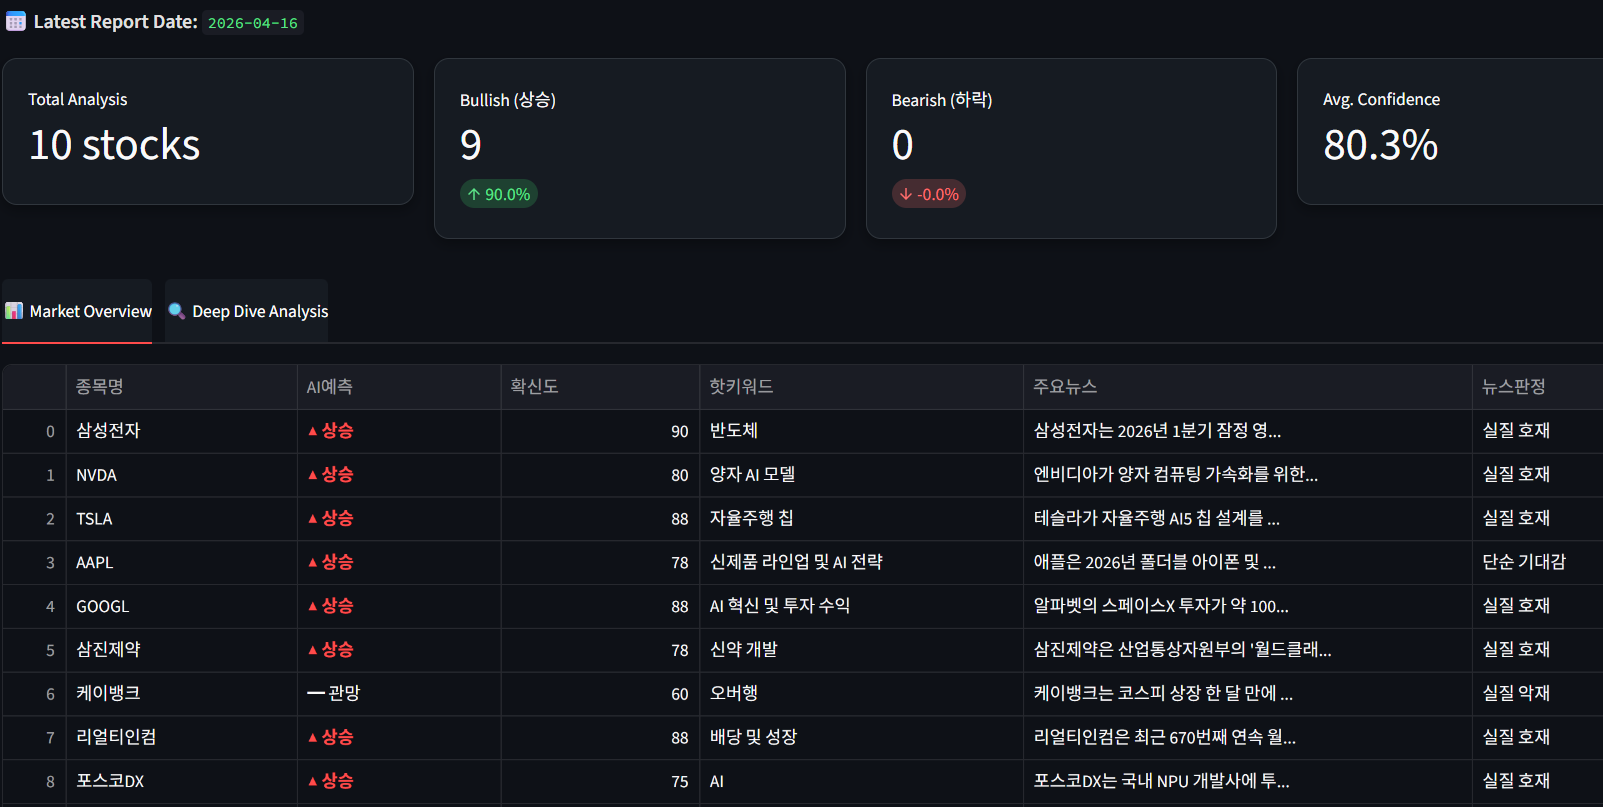
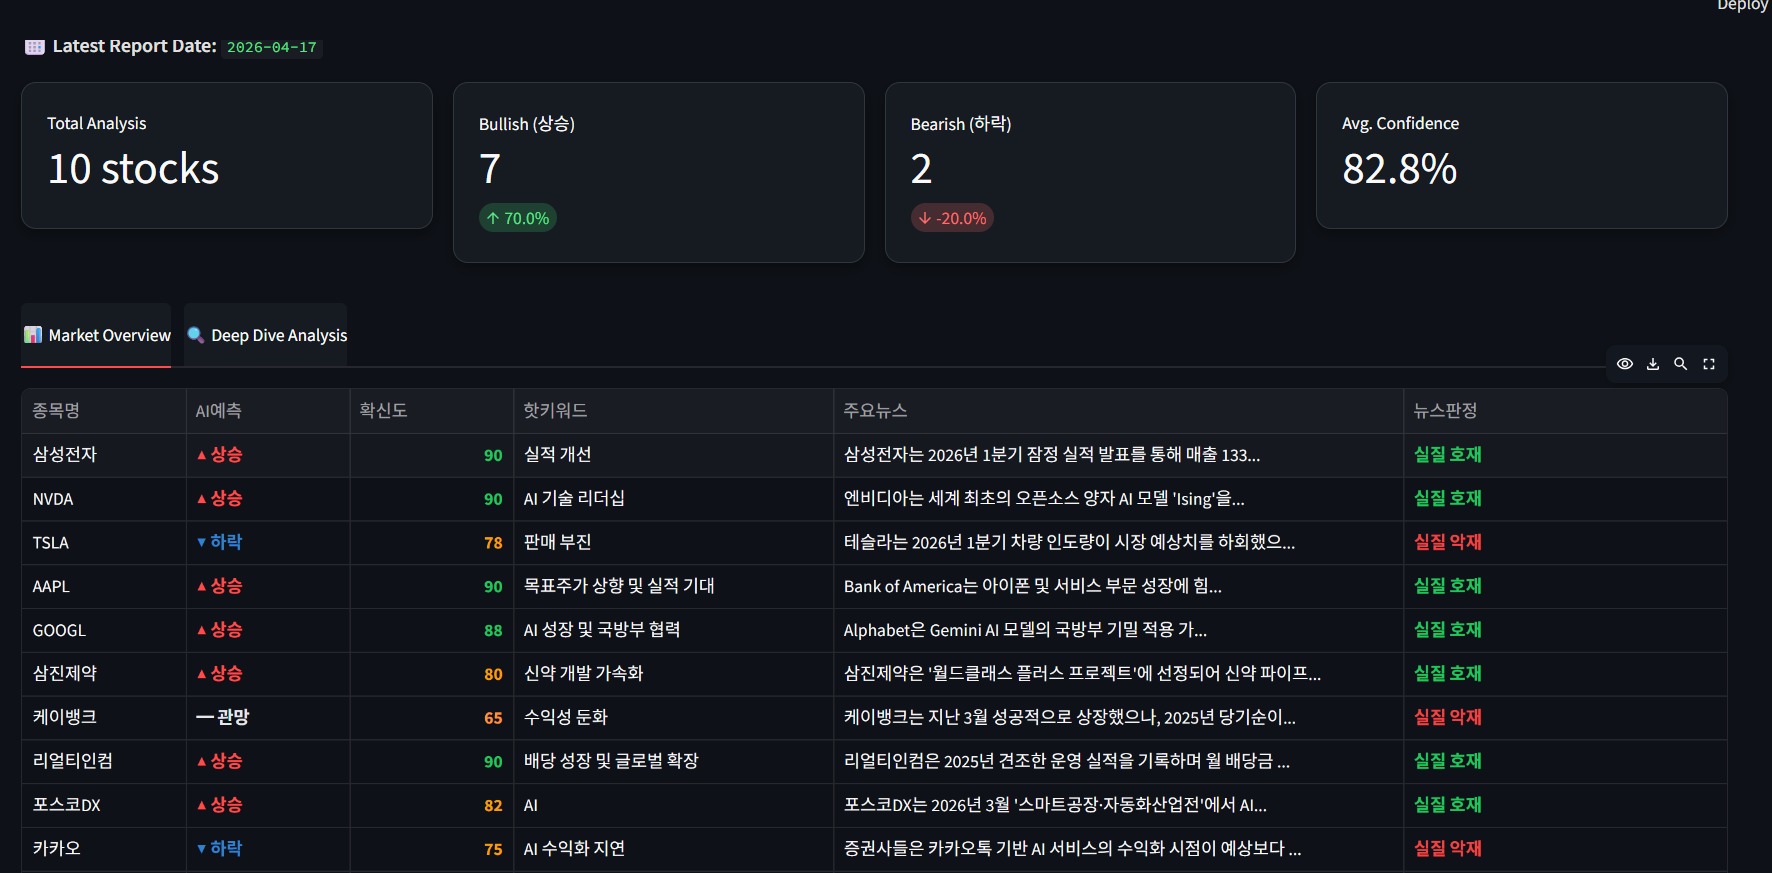
update dashboard_main.png

diff --git a/src/web_app.py b/src/web_app.py
@@ -2,7 +2,6 @@ import streamlit as st
 import pandas as pd
 import os
 from datetime import datetime
-import streamlit.components.v1 as components
 
 # 1. 페이지 설정
 st.set_page_config(page_title="Gemini Pro Insight", layout="wide", page_icon="💎")
@@ -44,10 +43,8 @@ st.markdown("""
     }
 
     .badge-keyword { background-color: #F59E0B; color: black; }
-    .badge-news { background-color: #8B5CF6; }
     .badge-chart { background-color: #0EA5E9; }
     .badge-pattern { background-color: #10B981; }
-    .badge-source { background-color: #64748B; }
 
     .section-title {
         font-size: 1.05rem;
@@ -90,6 +87,7 @@ st.markdown("""
 
 REPORT_PATH = "logs/daily_analysis_report.csv"
 
+
 def load_stock_chart_data(stock_name: str, ticker: str):
     possible_paths = [
         f"logs/raw_data/{stock_name}_5year_data.csv",
@@ -111,6 +109,7 @@ def load_stock_chart_data(stock_name: str, ticker: str):
                 return None
     return None
 
+
 def load_data():
     expected_columns = [
         "날짜", "종목명", "티커", "AI예측", "확신도",
@@ -126,7 +125,6 @@ def load_data():
         df.columns = df.columns.str.strip()
         df.columns = df.columns.str.replace("\ufeff", "", regex=False)
 
-        # 헤더가 없거나 꼬인 경우 대비
         if "확신도" not in df.columns:
             df = pd.read_csv(
                 REPORT_PATH,
@@ -160,10 +158,36 @@ def load_data():
 
 def get_prediction_color(pred_val: str):
     if "상승" in pred_val:
-        return "#FF4B4B"
+        return "#FF4B4B"   # 한국 주식 스타일: 상승 빨강
     elif "하락" in pred_val:
-        return "#3182CE"
-    return "#94A3B8"
+        return "#3182CE"   # 하락 파랑
+    return "#E5E7EB"
+
+
+def get_news_signal_color(signal: str):
+    signal = str(signal).strip()
+    if "호재" in signal:
+        return "#22C55E"   # 초록
+    if "악재" in signal:
+        return "#EF4444"   # 빨강
+    if "기대감" in signal:
+        return "#F59E0B"   # 노랑
+    return "#94A3B8"       # 회색
+
+
+def get_confidence_color(score):
+    try:
+        score = float(score)
+    except Exception:
+        return "#94A3B8"
+
+    if score >= 85:
+        return "#22C55E"   # 초록
+    elif score >= 70:
+        return "#F59E0B"   # 노랑
+    elif score >= 50:
+        return "#FB923C"   # 주황
+    return "#EF4444"       # 빨강
 
 
 def shorten_text(text: str, limit: int = 20):
@@ -211,6 +235,8 @@ if df is not None and not df.empty:
     # 사이드바 필터
     with st.sidebar:
         st.subheader("🔧 필터")
+        st.caption("예측 결과가 모두 선택되어 있으면 전체 보기입니다.")
+
         pred_filter = st.multiselect(
             "예측 결과",
             ["▲ 상승", "▼ 하락", "━ 관망"],
@@ -223,8 +249,12 @@ if df is not None and not df.empty:
             stock_list,
             key="stock_filter_widget"
         )
-        
+
         min_conf = st.slider("최소 확신도", 0, 100, 0)
+
+    # multiselect 전부 해제 방어
+    if not pred_filter:
+        pred_filter = ["▲ 상승", "▼ 하락", "━ 관망"]
 
     filtered_df = latest_df.copy()
     filtered_df = filtered_df[filtered_df["AI예측"].isin(pred_filter)]
@@ -238,17 +268,36 @@ if df is not None and not df.empty:
     with tab1:
         def style_df(row):
             styles = [''] * len(row)
-            if '상승' in str(row['AI예측']):
-                styles[1] = 'color: #FF4B4B; font-weight: bold'
-            elif '하락' in str(row['AI예측']):
-                styles[1] = 'color: #3182CE; font-weight: bold'
+
+            # 컬럼 순서:
+            # 종목명, AI예측, 확신도, 핫키워드, 주요뉴스, 뉴스판정
+            pred = str(row["AI예측"])
+            conf = row["확신도"]
+            news_signal = str(row["뉴스판정"])
+
+            # AI예측 색상
+            if "상승" in pred:
+                styles[1] = "color: #FF4B4B; font-weight: bold;"
+            elif "하락" in pred:
+                styles[1] = "color: #3182CE; font-weight: bold;"
+            else:
+                styles[1] = "color: #E5E7EB; font-weight: bold;"
+
+            # 확신도 색상
+            conf_color = get_confidence_color(conf)
+            styles[2] = f"color: {conf_color}; font-weight: bold;"
+
+            # 뉴스판정 색상
+            news_color = get_news_signal_color(news_signal)
+            styles[5] = f"color: {news_color}; font-weight: bold;"
+
             return styles
 
         display_df = filtered_df[[
             "종목명", "AI예측", "확신도", "핫키워드", "뉴스요약", "뉴스판정"
         ]].copy()
 
-        display_df["주요뉴스"] = display_df["뉴스요약"].apply(lambda x: shorten_text(x, 20))
+        display_df["주요뉴스"] = display_df["뉴스요약"].apply(lambda x: shorten_text(x, 35))
 
         display_df = display_df[[
             "종목명", "AI예측", "확신도", "핫키워드", "주요뉴스", "뉴스판정"
@@ -257,8 +306,17 @@ if df is not None and not df.empty:
         st.dataframe(
             display_df.style.apply(style_df, axis=1),
             use_container_width=True,
-            height=500
+            height=620,
+            column_config={
+                "종목명": st.column_config.TextColumn("종목명", width="small"),
+                "AI예측": st.column_config.TextColumn("AI예측", width="small"),
+                "확신도": st.column_config.NumberColumn("확신도", width="small"),
+                "핫키워드": st.column_config.TextColumn("핫키워드", width="medium"),
+                "주요뉴스": st.column_config.TextColumn("주요뉴스", width="large"),
+                "뉴스판정": st.column_config.TextColumn("뉴스판정", width="medium"),
+            }
         )
+
         st.write("### 🔎 종목 바로 보기")
 
         button_cols = st.columns(5)
@@ -291,51 +349,55 @@ if df is not None and not df.empty:
         else:
             current_label = selected_stock if selected_stock != "전체" else stock_filter
             st.markdown(f"### 현재 선택된 종목: {current_label}")
+
             for _, row in detail_df.iterrows():
                 pred_val = str(row["AI예측"])
                 accent_color = get_prediction_color(pred_val)
+                news_color = get_news_signal_color(row["뉴스판정"])
+                conf_color = get_confidence_color(row["확신도"])
+
                 reason_text = str(row["핵심사유"]).replace("\\n", "<br>").replace("•", "<br>•")
                 news_text = str(row["뉴스요약"]).replace("\\n", "<br>")
 
                 with st.container():
                     st.html(f"""
-    <div style="background-color: #161B22; border-left: 5px solid {accent_color}; padding: 22px; border-radius: 12px; margin-bottom: 22px;">
-        <div style="display: flex; justify-content: space-between; align-items: center; margin-bottom: 15px;">
-            <span style="font-size: 1.5rem; font-weight: bold; color: white;">
-                {row['종목명']} <small style="color: #888; font-weight: normal;">({row['티커']})</small>
-            </span>
-            <span style="background-color: {accent_color}; color: white; padding: 6px 16px; border-radius: 20px; font-weight: bold; font-size: 0.95rem;">
-                {pred_val}
-            </span>
-        </div>
-
-        <div style="margin-bottom: 8px;">
-            <span class="mini-badge badge-keyword">키워드: {row['핫키워드']}</span>
-            <span class="mini-badge badge-news">뉴스: {row['뉴스판정']}</span>
-            <span class="mini-badge badge-chart">차트: {row['차트판정']}</span>
-            <span class="mini-badge badge-pattern">패턴: {row['패턴판정']}</span>
-        </div>
-
-        <div class="section-title">주요 뉴스</div>
-        <div class="reason-box">
-            {news_text}
-        </div>
-
-        <div class="section-title">뉴스 출처</div>
-        <div class="source-box">
-            {row['뉴스출처']}
-        </div>
-
-        <div class="section-title">판단 이유</div>
-        <div class="reason-box">
-            {reason_text}
-        </div>
-
-        <div style="margin-top: 15px; border-top: 1px solid #30363D; padding-top: 10px;">
-            <span style="color: #888; font-size: 0.9rem;">AI 확신도: {row['확신도']}%</span>
-        </div>
+<div style="background-color: #161B22; border-left: 5px solid {accent_color}; padding: 22px; border-radius: 12px; margin-bottom: 22px;">
+    <div style="display: flex; justify-content: space-between; align-items: center; margin-bottom: 15px;">
+        <span style="font-size: 1.5rem; font-weight: bold; color: white;">
+            {row['종목명']} <small style="color: #888; font-weight: normal;">({row['티커']})</small>
+        </span>
+        <span style="background-color: {accent_color}; color: white; padding: 6px 16px; border-radius: 20px; font-weight: bold; font-size: 0.95rem;">
+            {pred_val}
+        </span>
     </div>
-    """)
+
+    <div style="margin-bottom: 8px;">
+        <span class="mini-badge badge-keyword">키워드: {row['핫키워드']}</span>
+        <span class="mini-badge" style="background-color: {news_color};">뉴스: {row['뉴스판정']}</span>
+        <span class="mini-badge badge-chart">차트: {row['차트판정']}</span>
+        <span class="mini-badge badge-pattern">패턴: {row['패턴판정']}</span>
+    </div>
+
+    <div class="section-title">주요 뉴스</div>
+    <div class="reason-box">
+        {news_text}
+    </div>
+
+    <div class="section-title">뉴스 출처</div>
+    <div class="source-box">
+        {row['뉴스출처']}
+    </div>
+
+    <div class="section-title">판단 이유</div>
+    <div class="reason-box">
+        {reason_text}
+    </div>
+
+    <div style="margin-top: 15px; border-top: 1px solid #30363D; padding-top: 10px;">
+        <span style="color: {conf_color}; font-size: 0.95rem; font-weight: bold;">AI 확신도: {row['확신도']}%</span>
+    </div>
+</div>
+""")
 
                 with st.expander(f"📉 {row['종목명']} 차트 보기"):
                     chart_df = load_stock_chart_data(row["종목명"], row["티커"])
@@ -360,6 +422,6 @@ if df is not None and not df.empty:
                             )
                     else:
                         st.info("차트 데이터를 찾을 수 없습니다.")
-                    
+
 else:
     st.error("🚨 분석 데이터를 찾을 수 없습니다. 경로와 파일명을 확인해 주세요.")

diff --git a/README.md b/README.md
@@ -1,13 +1,15 @@
 # 📈 Gemini 수석 애널리스트: AI 실시간 주식 전략 대시보드
 
-> **"데이터로 기강 잡고, 수익으로 증명한다."** ㅡㅡ+
+> **"실시간 뉴스와 기술적 지표를 결합한 AI 주식 분석 시스템"** ㅡㅡ+
 
 이 프로젝트는 **Google Gemini AI**와 **실시간 구글 검색 기능**을 결합하여,  
 매일 아침 종목별 뉴스 재료와 기술적 지표(이동평균선)를 함께 분석하고  
 단기 투자 판단을 정리하는 **AI 주식 분석 프로젝트**입니다.
 
-현재 **3일차 개발 진행 중**이며,  
+현재 **4일차 개발 진행 중**이며,  
 뉴스 수집 · 차트 분석 · Streamlit 대시보드 기능을 우선 구현한 상태입니다.
+
+현재 버전은 10개 종목을 대상으로 테스트 중이며, 이후 종목 수를 점진적으로 확장할 계획입니다.
 
 ---
 
